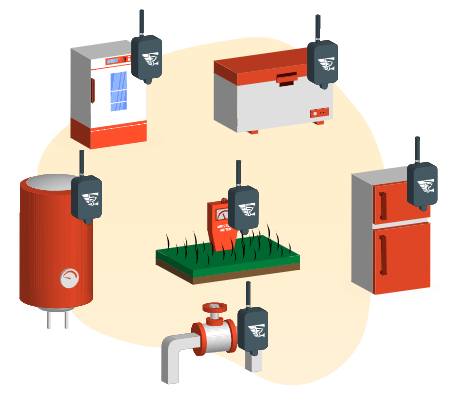
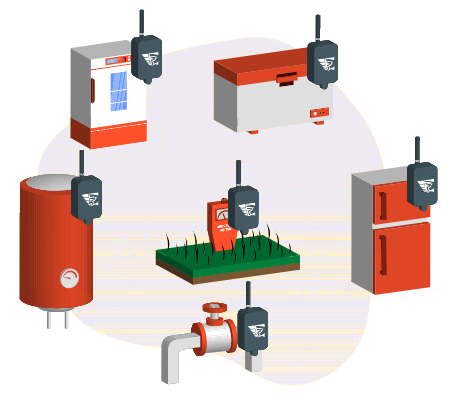
add system illustration for the desktop versions

Changed region(s): [[0.0602, 0.0878, 0.843, 0.9366]]

diff --git a/src/scss/components/banner.scss b/src/scss/components/banner.scss
@@ -1,19 +1,16 @@
 .banner {
-  // background: $color-brand-light;
-  padding: 40px;
   min-height: 50vh;
   display: flex;
-  align-items: center;
-  justify-content: center;
-  overflow: hidden;
+  max-width: 990px;
+  margin: auto;
   position: relative;
 }
 
 .banner__inner {
+  padding-top: 10%;
   text-align: left;
-  max-width: 600px;
-  width: 45%;
-  // color: #fff;
+  width: 70%;
+  z-index: 1;
 }
 
 .banner__header {
@@ -23,7 +20,8 @@
 }
 
 .banner__content {
-  margin-bottom: 20px;
+  margin-bottom: 2em;
+  padding-right: 9em;
 }
 
 .banner__cta {
@@ -33,16 +31,10 @@
 }
 
 .banner__image {
-  max-width: 40%;
-  margin-left: 20px;
-  order: 3;
-  background: url("../../static/icon/Cloud.png"), $color-brand-light;
-  background-blend-mode: darken;
-  height: 300px;
-  width: 300px;
-  background-size: contain;
-  background-repeat: no-repeat;
-  background-position: center;
+  position: absolute;
+  width: 80%;
+  right: -20%;
+  bottom: -15%;
 }
 
 @media screen and (max-width: 990px) {

diff --git a/src/pages/index.js b/src/pages/index.js
@@ -20,8 +20,8 @@ export default function Home() {
             <div className="banner__inner">
               <h1 className="banner__header">Seraphin Monitoring Platform</h1>
               <div className="banner__content">
-                Seraphin Monitoring Platform is a comprehensive IoT (Internet of
-                Things) software platform developed to provide real-time
+                Seraphin Monitoring Platform is a comprehensive 
+                IoT solution developed to provide real-time
                 monitoring and rapid alert capability.
               </div>
               <div className="banner__cta">
@@ -30,7 +30,9 @@ export default function Home() {
                 </Link>
               </div>
             </div>
-            <div className="banner__image" />
+            <div className="banner__image">
+              <img src="app/illustration-dekstop-xxl.png"/>
+            </div>
           </div>
         </Panel>
       </FirstPanel>
